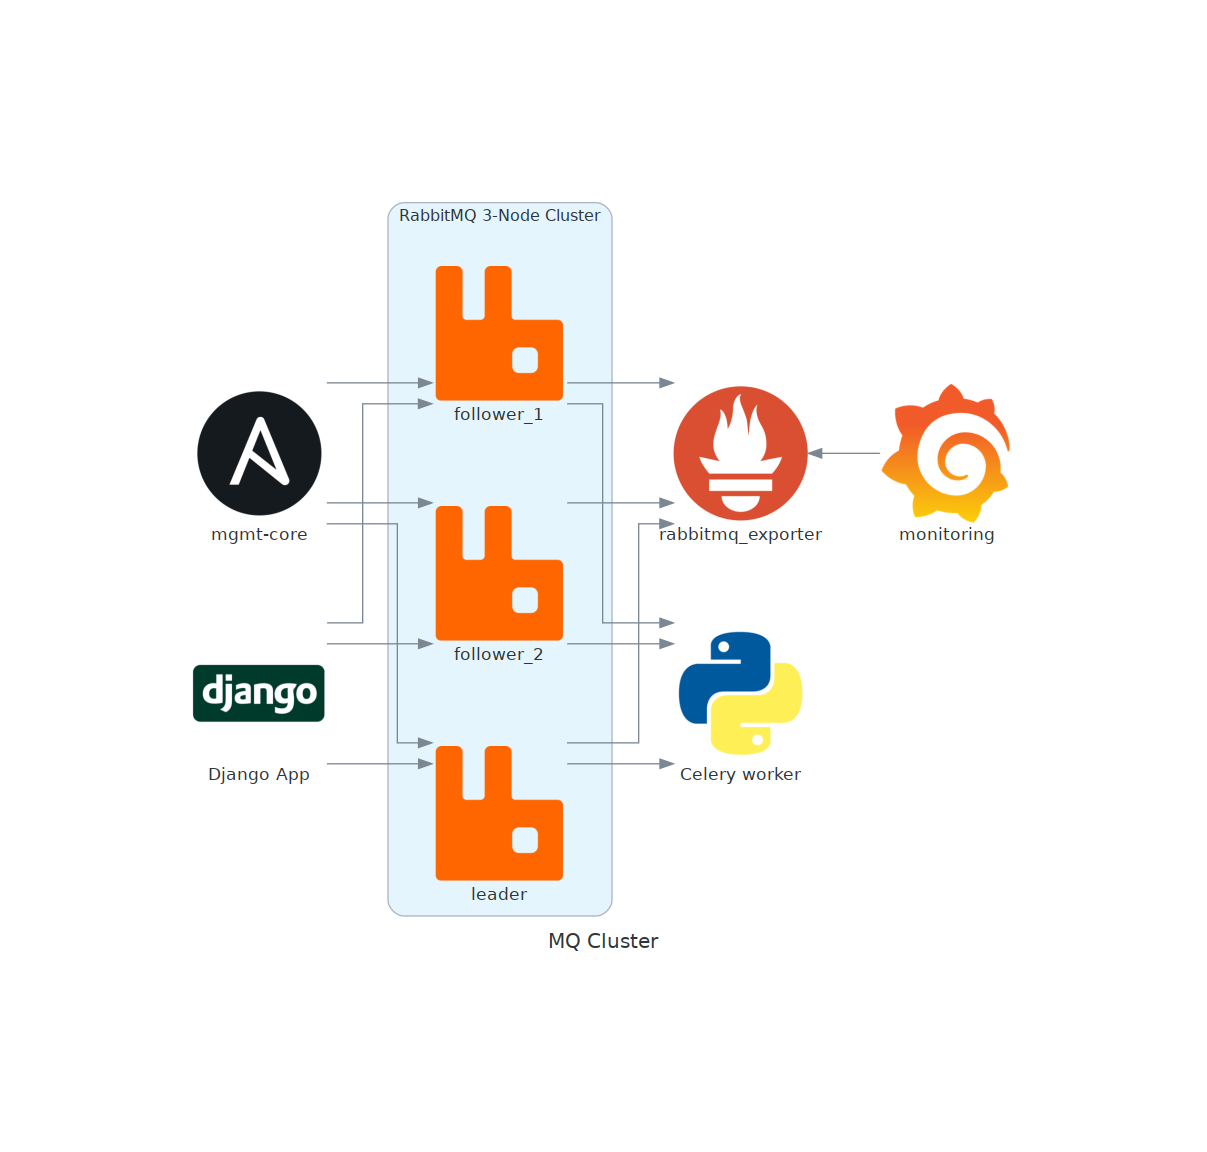
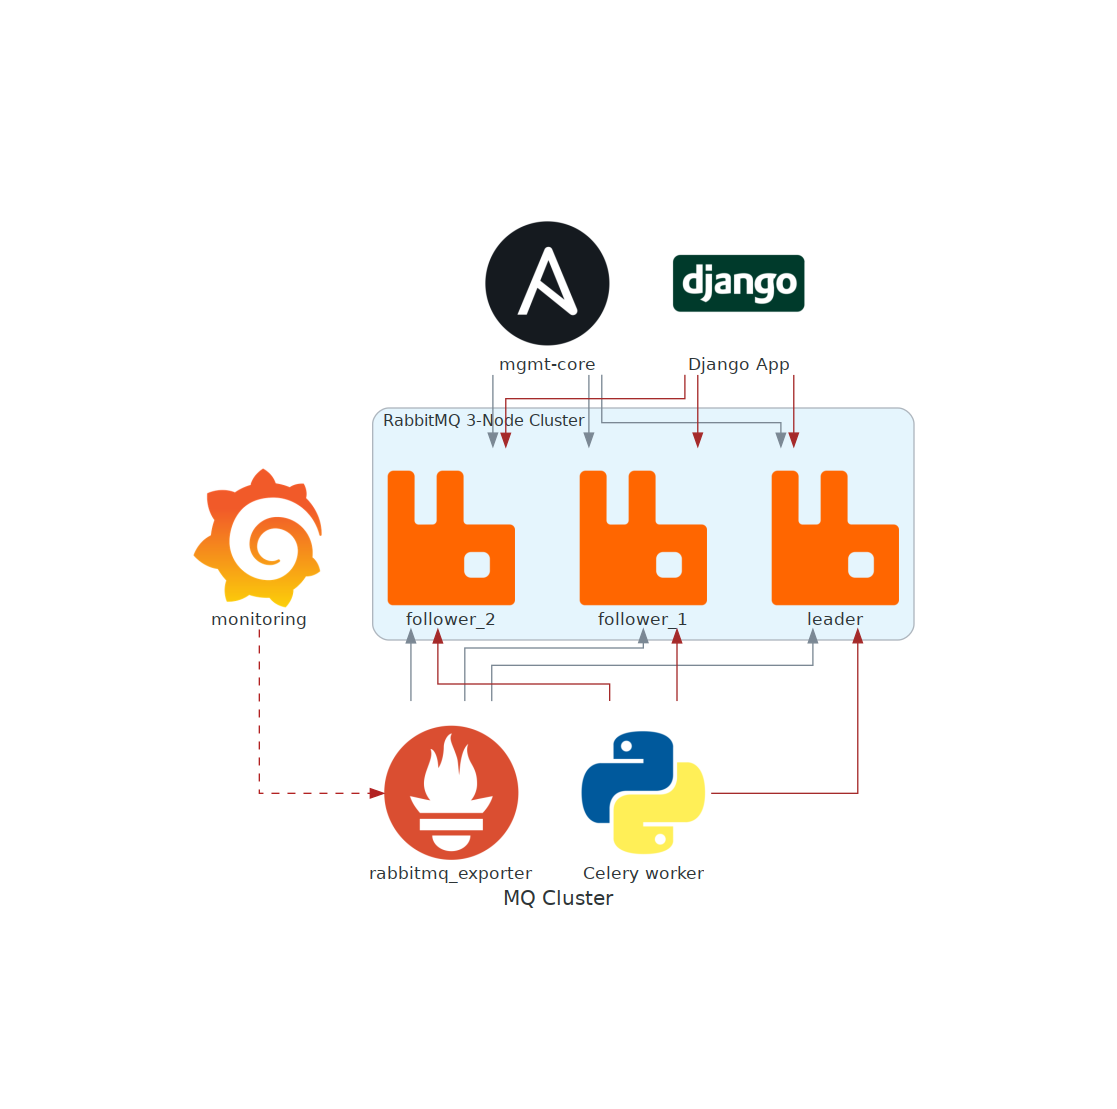
[upd] diagrams
#DOC

Changed region(s): [[0.1522, 0.1533, 0.8523, 0.8278]]

diff --git a/diagrams/main.py b/diagrams/main.py
@@ -1,15 +1,14 @@
-from diagrams import Cluster, Diagram
+from diagrams import Cluster, Diagram, Edge
 from diagrams.onprem.iac import Ansible
 from diagrams.onprem.monitoring import Grafana, Prometheus
 from diagrams.onprem.queue import RabbitMQ
 from diagrams.programming.framework import Django
 from diagrams.programming.language import Python
 
-with Diagram("MQ Cluster", show=False):
+with Diagram("MQ Cluster", show=False, direction="TB"):
     provisioner = Ansible("mgmt-core")
 
-    metrics = Prometheus("rabbitmq_exporter")
-    metrics << Grafana("monitoring")
+    metrics = Grafana("monitoring") >> Edge(color="firebrick", style="dashed") >> Prometheus("rabbitmq_exporter")
 
     producer = Django("Django App")
     consumer = Python("Celery worker")
@@ -20,22 +19,21 @@ with Diagram("MQ Cluster", show=False):
                         RabbitMQ("follower_2")]
 
     provisioner >> mq_cluster
-    producer >> mq_cluster >> consumer
-    mq_cluster >> metrics
+    producer >> Edge(color="brown") >> mq_cluster << Edge(color="brown") << consumer
+    mq_cluster <<  metrics
 
 
-with Diagram("MQ Single", show=False):
+with Diagram("MQ Single", show=False, direction="TB"):
     provisioner = Ansible("mgmt-core")
 
-    metrics = Prometheus("rabbitmq_exporter")
-    metrics << Grafana("monitoring")
+    metrics = Grafana("monitoring") >> Edge(color="firebrick", style="dashed") >> Prometheus("rabbitmq_exporter")
 
     producer = Django("Django App")
     consumer = Python("Celery worker")
 
     with Cluster("RabbitMQ Single Node Cluster"):
-        mq_cluster = RabbitMQ("leader")
+        mq_cluster = [RabbitMQ("leader")]
 
     provisioner >> mq_cluster
-    producer >> mq_cluster >> consumer
-    mq_cluster >> metrics
+    producer >> Edge(color="brown") >> mq_cluster << Edge(color="brown") << consumer
+    mq_cluster <<  metrics
